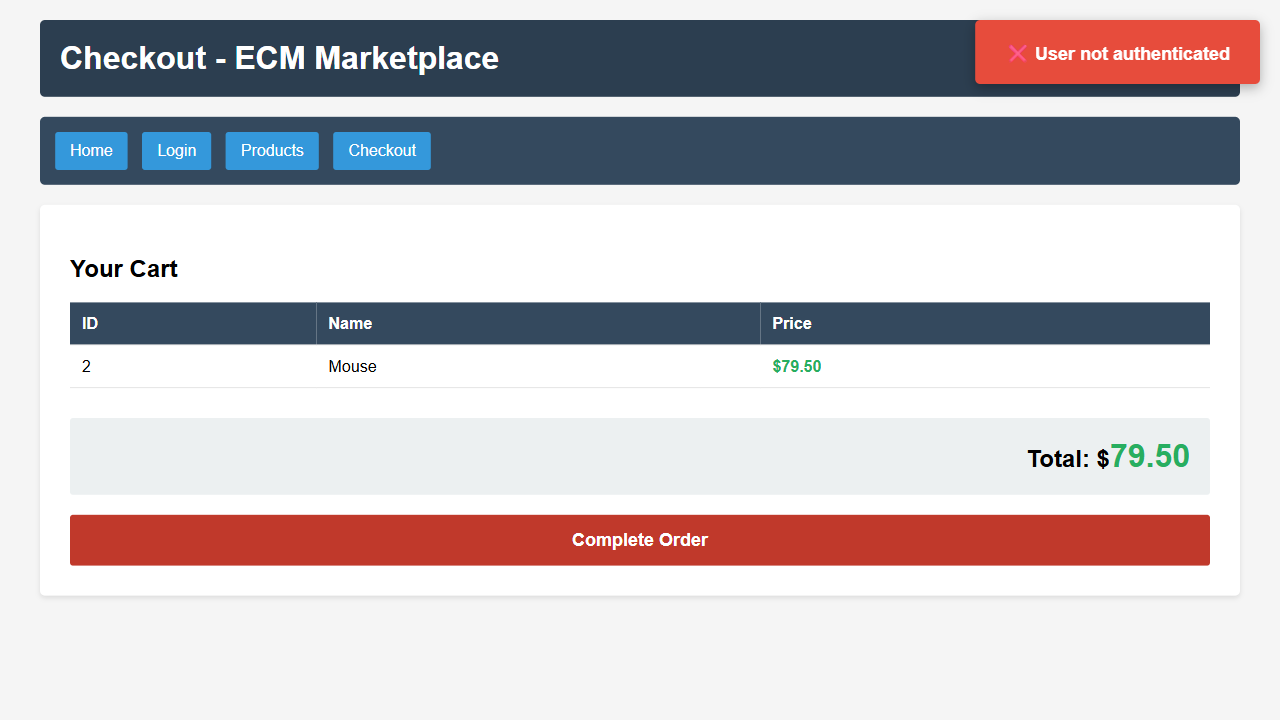
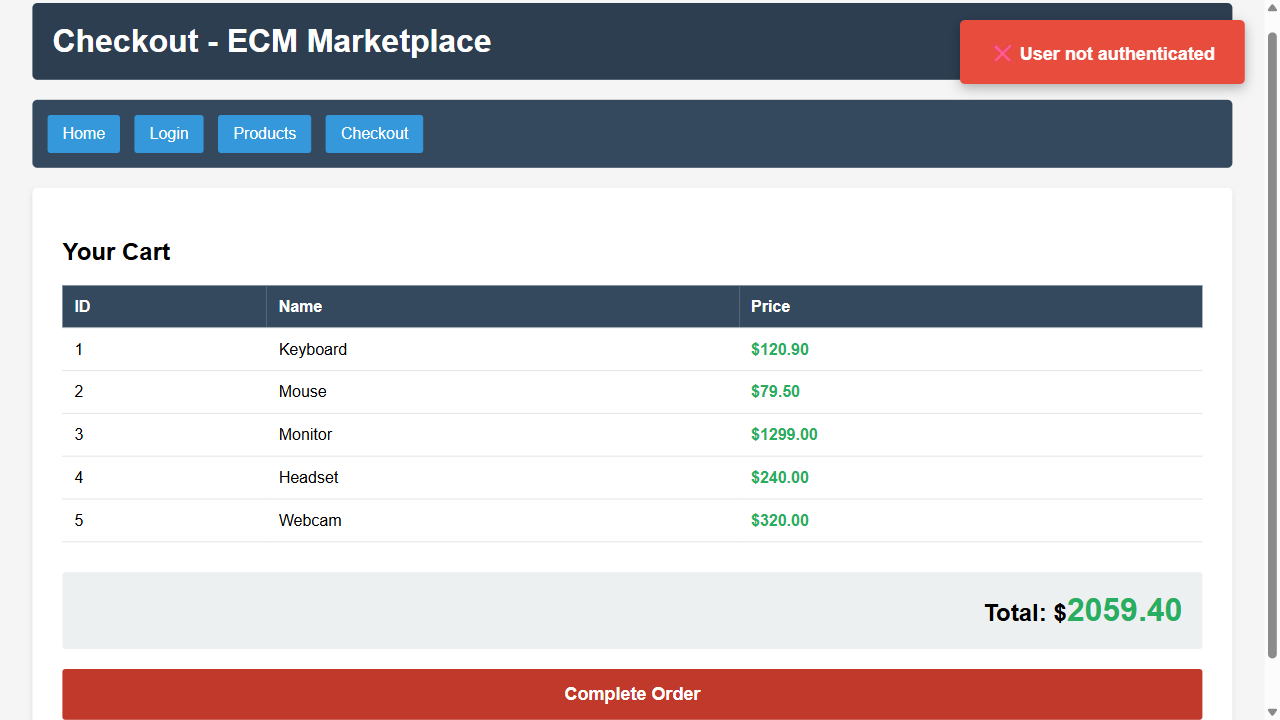
unoutorized message

diff --git a/playwright-report/index.html b/playwright-report/index.html
@@ -87,4 +87,4 @@ Error generating stack: `+l.message+`
     <div id='root'></div>
   </body>
 </html>
[2 lines of base64/hex data omitted]

diff --git a/tests/FrontEnd/checkout.spec.ts b/tests/FrontEnd/checkout.spec.ts
@@ -113,24 +113,97 @@ test.describe.parallel('checkout', () => {
         await page.screenshot({path: "Evidencias/checkout/CheckoutProdutoBotaoCompleteOrder.png"});
     });
 
-   /* test('cheout Unauthenticated', async ({ page }) => {
+    test('cheout Unauthenticated', async ({ page }) => {
         const navigationPage = new NavegationPage(page);
         await navigationPage.productsPage();
-        await page.click('[data-id="2"]');
-        await page.screenshot({path: "Evidencias/checkout/CheckoutProdutoCorreto2.png"});
-        //await page.locator('[data-id="2"]').click();
+
+        let idProduto = [];
+        let nomeProduto = [];
+        let precoProduto = [];
+        let id = 0;
+        let ids = [1, 2, 3, 4, 5];
+        let cartCount = 0;
+
+        for (let i = 0; i < ids.length; i++) {
+            id = ids[i];
+
+            if(await page.locator(`[data-id="${id}"]`).isDisabled()) {
+                console.log(`O botão de adicionar ao carrinho do produto com ID ${id} está desabilitado!`);
+            }
+            
+            switch (id) {
+                case 1:
+                    await page.click(`[data-id="${id}"]`);
+                    idProduto.push(id);
+                    nomeProduto.push('Keyboard');
+                    precoProduto.push(120.90);
+                    cartCount = 1;
+                    break;
+
+                case 2:
+                    await page.click(`[data-id="${id}"]`);
+                    idProduto.push(id);
+                    nomeProduto.push('Mouse');
+                    precoProduto.push(79.50);
+                    cartCount = 1;    
+                    break;
+
+                case 3:
+                    await page.click(`[data-id="${id}"]`);
+                    idProduto.push(id);
+                    nomeProduto.push('Monitor');
+                    precoProduto.push(1299.00);
+                    break; 
+
+                case 4:
+                    await page.click(`[data-id="${id}"]`);
+                    idProduto.push(id);
+                    nomeProduto.push('Headset');
+                    precoProduto.push(240.00);
+                    cartCount = 1;
+                    break;
+
+                case 5:
+                    await page.click(`[data-id="${id}"]`);
+                    idProduto.push(id);
+                    nomeProduto.push('Webcam');
+                    precoProduto.push(320.00);
+                    cartCount = 1;
+                    break;
+
+                default:
+                    console.log('Id do produto não encontrado, verifique o id do produto');
+            }
+        }
+        
         await navigationPage.checkoutPage();
-        const btnfinish = await page.locator('#btnFinish').isDisabled();
-        if (btnfinish === true) {
+        await page.screenshot({path: "Evidencias/checkout/CheckoutProdutoCorreto.png"});
+
+        let totalFinal: any = 0;
+        let precoTotal: any = 0;
+
+        for (let i = 0; i < precoProduto.length; i++) {
+             precoTotal += precoProduto[i];
+        }
+        totalFinal = await page.locator('#total').textContent();
+
+        if(precoTotal == totalFinal){
+            console.log('O valor do total está correto! \n');
+        }
+        else{
+            console.log('Existe alguma coisa errada na soma do(s) valore(s) do(s) preço(s) do(s) produto(s) \n');
+        }
+
+       const btnfinish = await page.locator('#btnFinish').isDisabled();
+       if (btnfinish === true) {
             console.log('O botão de finalizar pedido está desabilitado');
         }
         else {
             await page.click('#btnFinish');
             await expect(page.locator('#msg')).toHaveText('User not authenticated');
-        }   
-        //await page.locator('#btnFinish').click();
+        }
         await page.screenshot({path: "Evidencias/checkout/CheckoutProdutoBotaoCompleteOrder2.png"});
         
-    }); */
+    }); 
 
 });
